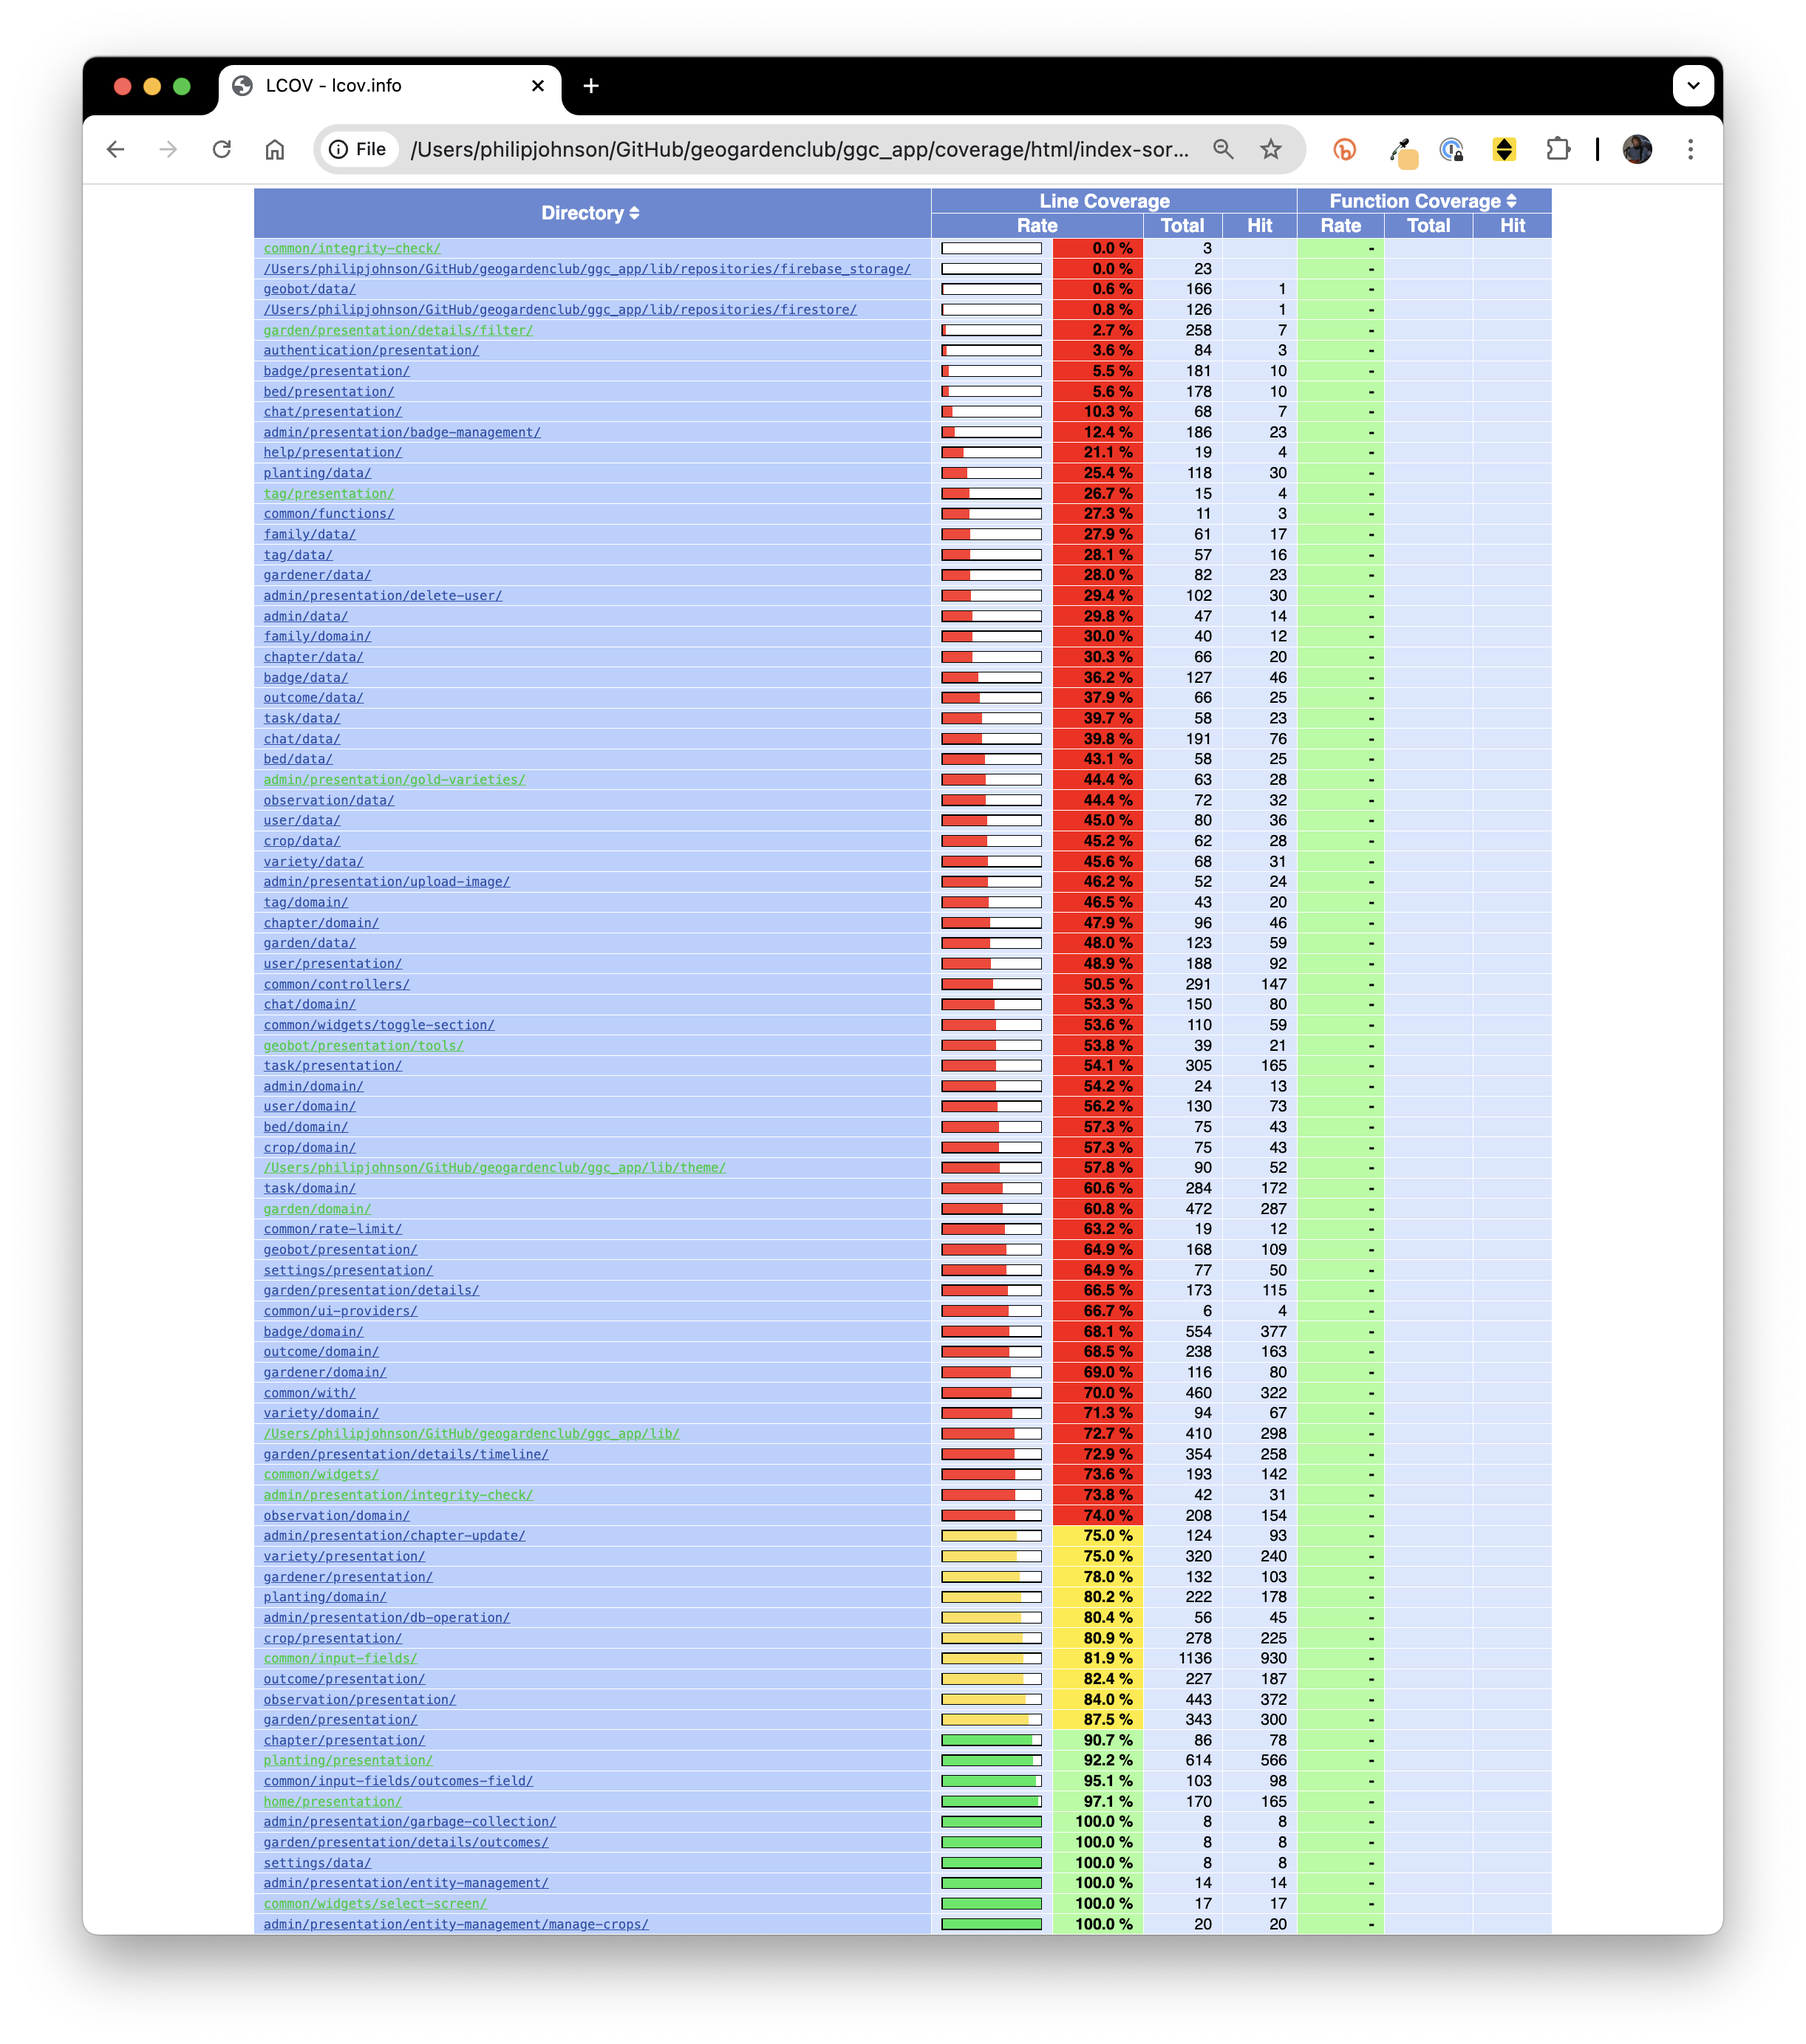
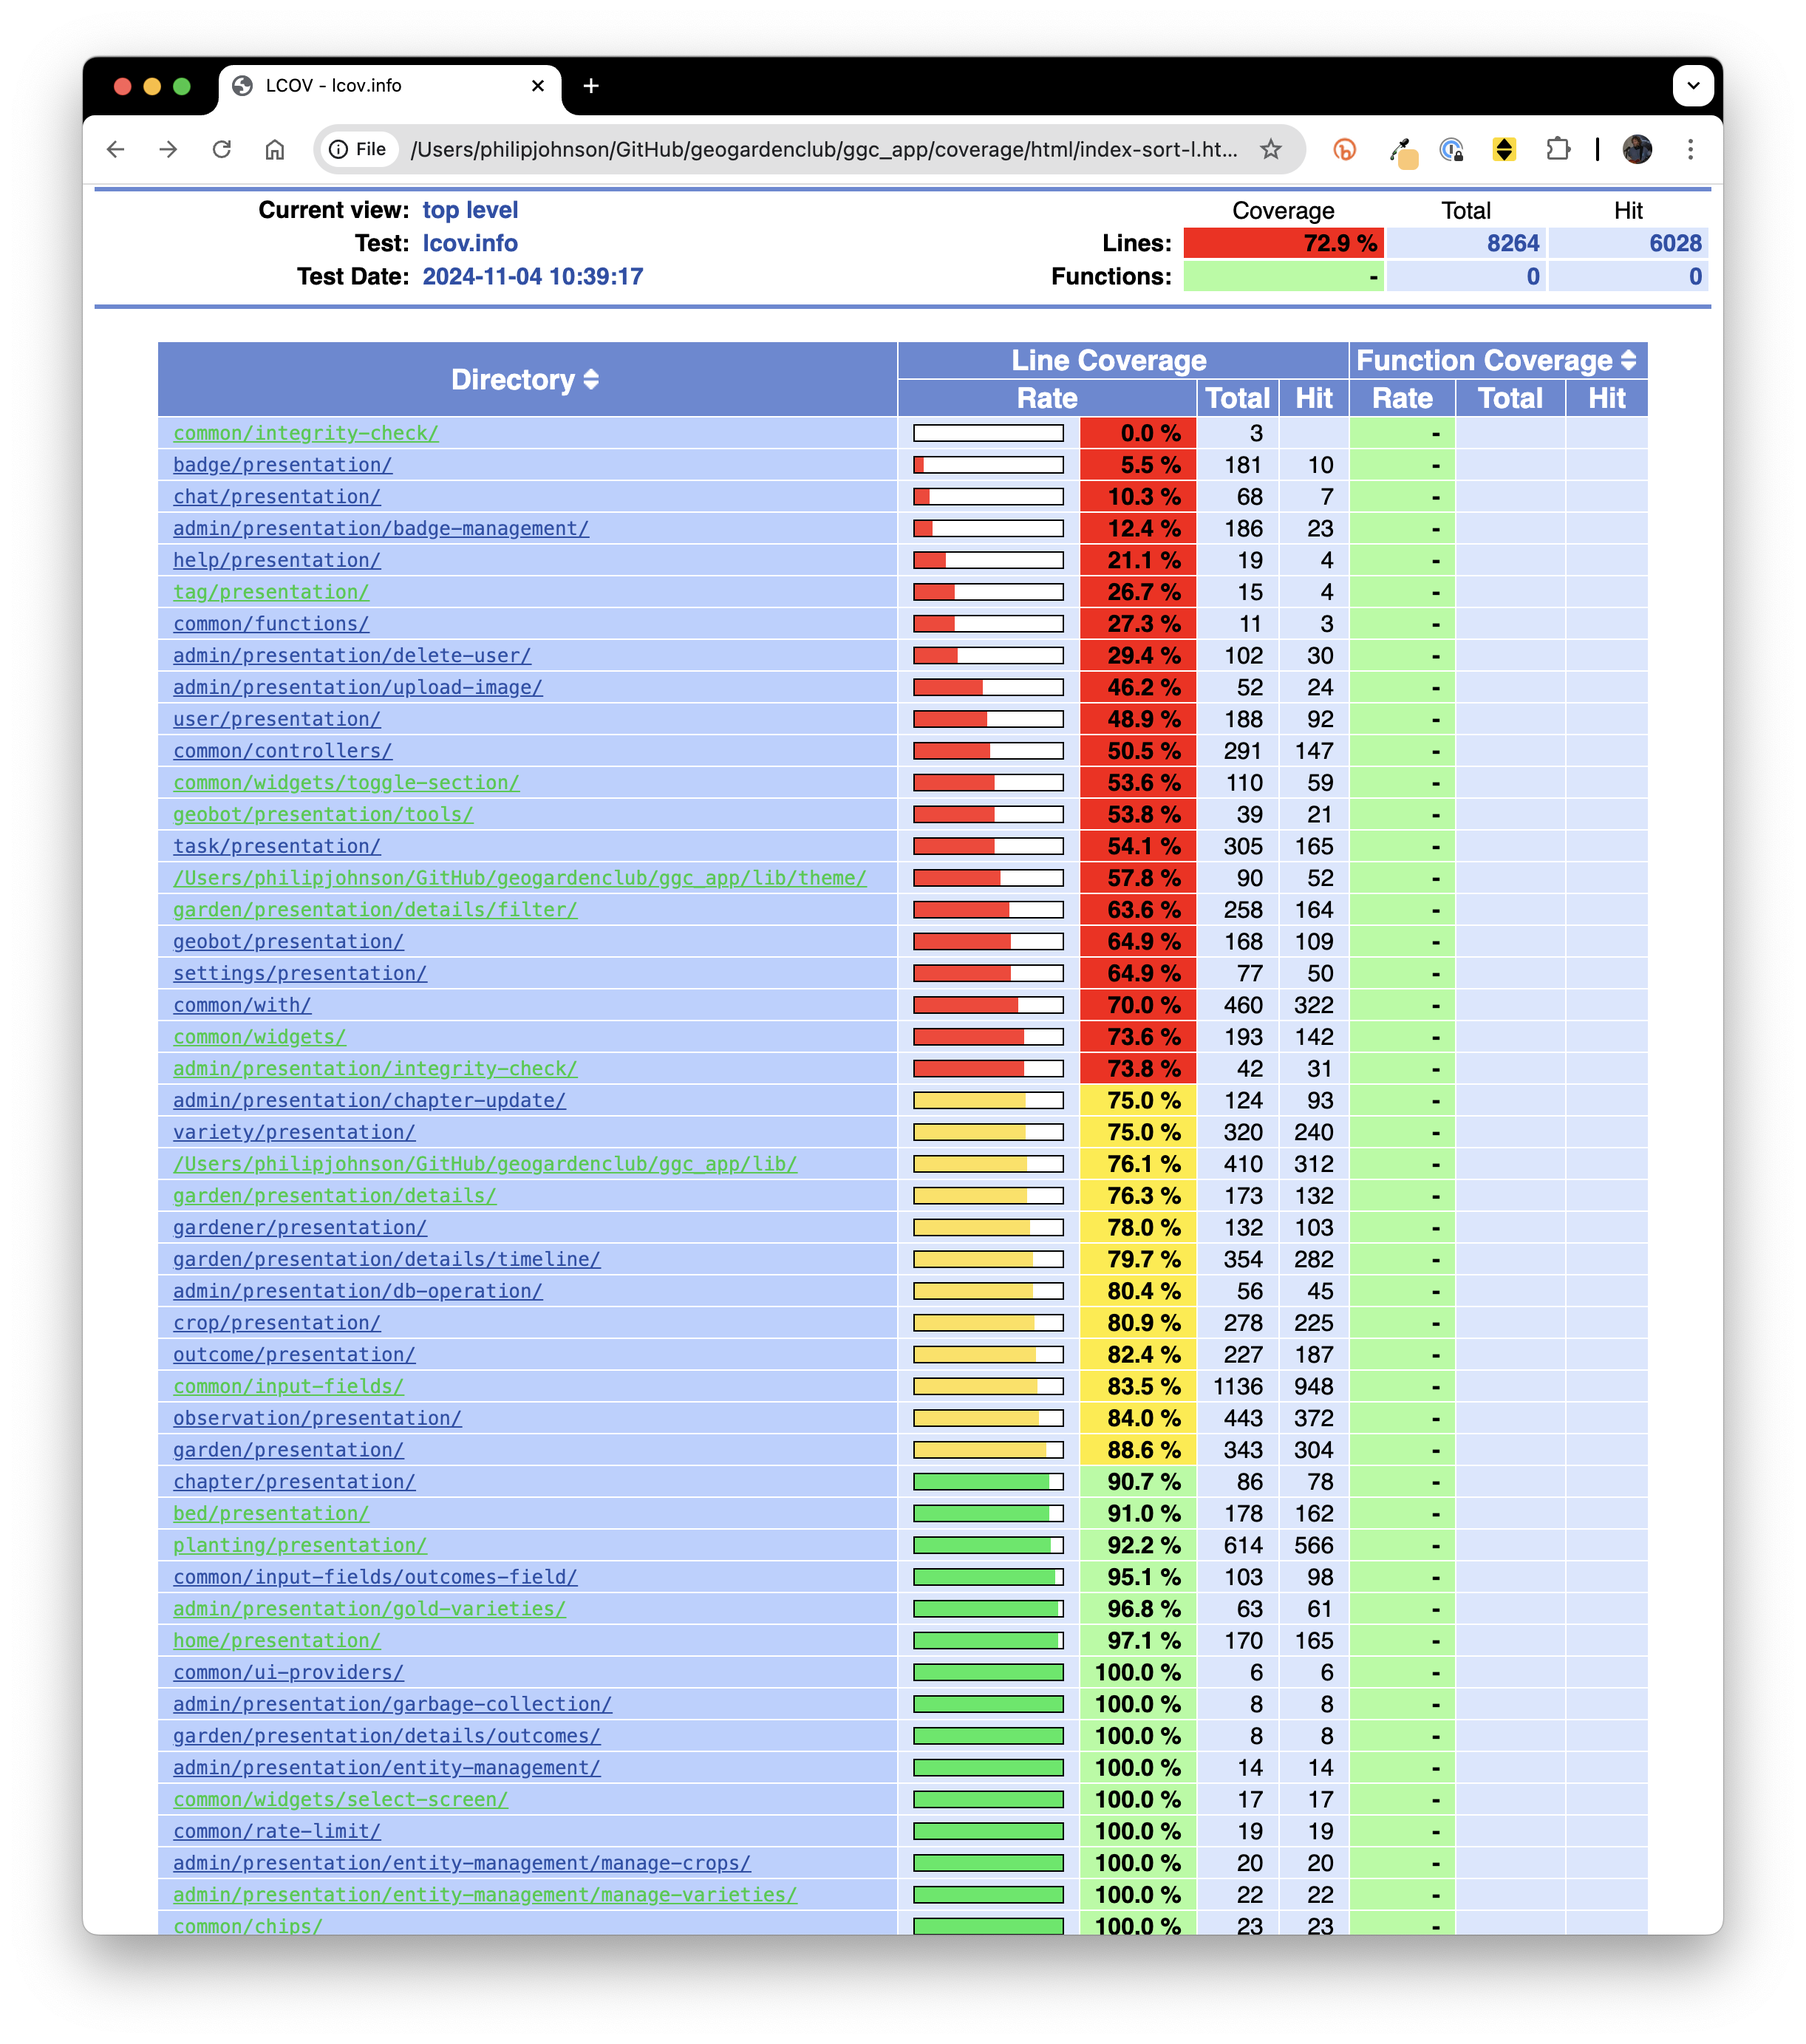
Update testing documentation

diff --git a/docs/develop/testing.md b/docs/develop/testing.md
@@ -18,25 +18,48 @@ Currently, our approach to testing excludes many important issues:
 * *Matrix (platform/device) testing.* GGC is intended to be used on three platforms: iOS, Android, and Web. Each of these platforms supports many different devices. We only test on one platform (iOS) and one device (typically iPhone 17). 
 * *UX testing.* Our tests do not ensure that user needs are met and that they have a positive experience using the app.
 
-Despite these limitations, our tests should help improve developer courage. In other words, the presence of a test suite that exercises most of the UI can give developers the confidence to attempt improvements to the code base because unintended ripple effects will often be caught by testing.  A decent test suite should enable us to incrementally improve the quality of the code over time. 
+Despite these limitations, our tests should help improve developer courage. In other words, the presence of a test suite that exercises most of the UI can give developers the confidence to attempt improvements to the code base because unintended ripple effects will often be caught by running the tests.  A decent test suite should enable us to incrementally improve the quality of the code over time as well as the feature set. 
 
+
+## Installation
+
+There are a few things you need to do to set up your machine to run the test suite locally.
+
+Note that at the current time, we only support testing on macOS. 
+
+First, bring up the iOS simulator and verify that you can bring up GGC on it. (The test suite assumes that the iOS simulator is available and that the GGC source code can be loaded.)  
+
+Second, install lcov on your machine by invoking:
+
+```shell
+brew install lcov
+```
+
+Third, activate the `remove_from_coverage` Dart package so that the coverage report can be customized. Do this by invoking:
+
+```agsl
+dart pub global activate remove_from_coverage
+```
 
 ## Run the tests
 
-Before you can run the test suite, bring up the iOS simulator and verify that the GGC source code can run on it. (The test suite assumes that the iOS simulator is available and that the GGC source code can be loaded.)  Once you've verified that GGC loads on the iOS simulator, you can stop execution of GGC if you want. (If you forget to do this, don't worry, invoking the test suite should stop execution of any running app on the simulator automatically.)  Don't quit the simulator, however.
-
-To run the test suite, invoke `./run_tests.sh`. It should take around 4 minutes to run, and should produce output similar to the following:
+To run the test suite, invoke `./run_tests.sh`. It should take around 5 minutes to run, and should produce output similar to the following:
 
 ```shell
-~/GitHub/geogardenclub/ggc_app git:[issue-235]
+~/GitHub/geogardenclub/ggc_app git:[main]
 ./run_tests.sh
 + flutter test integration_test/app_test.dart --coverage
-00:15 +0: loading /Users/philipjohnson/GitHub/geogardenclub/ggc_app/integration_test/app_test.dart                              Ru00:41 +0: loading /Users/philipjohnson/GitHub/geogardenclub/ggc_app/integration_test/app_test.dart                               
-00:48 +0: loading /Users/philipjohnson/GitHub/geogardenclub/ggc_app/integration_test/app_test.dart                           6.6s
-Xcode build done.                                           33.2s
-00:54 +0: GGC Integration Test (All) Fixture 1 Tests                                                                             
+00:04 +0: loading /Users/philipjohnson/GitHub/geogardenclub/ggc_app/integration_test/app_test.dart                               Ru00:30 +0: loading /Users/philipjohnson/GitHub/geogardenclub/ggc_app/integration_test/app_test.dart                                
+00:37 +0: loading /Users/philipjohnson/GitHub/geogardenclub/ggc_app/integration_test/app_test.dart                            6.8s
+Xcode build done.                                           32.5s
+00:44 +0: GGC Integration Test (All) Fixture 1 Tests                                                                              
 Testing admin feature
 Testing badge feature
+Testing bed feature
+#0   WriteRateLimiter.rateLimit (package:ggc_app/features/common/rate-limit/write_rate_limiter.dart:36:16)
+Rate limiting enabled.
+#0   WriteRateLimiter.rateLimit (package:ggc_app/features/common/rate-limit/write_rate_limiter.dart:36:16)
+Rate limiting enabled.
 Testing chapter feature
 Testing chat feature
 Testing crop feature
@@ -49,18 +72,26 @@ Testing outcome feature
 Testing planting feature
 Testing settings feature
 Testing task feature
+Testing user feature
 Testing variety feature
-02:00 +1: All tests passed!                                                                                                      
+04:46 +1: All tests passed!                                                                                                       
++ flutter pub global run remove_from_coverage:remove_from_coverage -f coverage/lcov.info -r 'repositories\/.*$'
++ flutter pub global run remove_from_coverage:remove_from_coverage -f coverage/lcov.info -r 'data\/.*$'
++ flutter pub global run remove_from_coverage:remove_from_coverage -f coverage/lcov.info -r 'domain\/.*$'
++ flutter pub global run remove_from_coverage:remove_from_coverage -f coverage/lcov.info -r 'authentication\/.*$'
 + genhtml -q coverage/lcov.info -o coverage/html
 Overall coverage rate:
-  source files: 472
-  lines.......: 61.8% (7922 of 12828 lines)
+  source files: 320
+  lines.......: 72.9% (6028 of 8264 lines)
   functions...: no data found
 Message summary:
   no messages were reported
 ```
 
-If the tests do not run successfully, the output will look similar to this:
+Note the line "All tests passed" after the sequence of lines documenting the feature under test.
+
+:::info Uh oh... 
+If the tests do not run successfully, there won't be the line "All tests passed", and the output will instead look similar to this:
 
 ```
 ./run_tests.sh
@@ -126,18 +157,20 @@ Message summary:
 You can see from this output that the failure occurred during the test of the planting feature. The stack trace indicates the failure occurred on line 24 of testPlantingCopyPlanting.dart. 
 
 If you cannot get the test code to execute successfully even though other developers can, it might be because the tests don't work on the device you've chosen. At the time of writing, the tests run successfully using the iPhone 15 simulator under iOS 17.5.
+:::
 
 Here are some important takeaways from this test execution output:
 
-* We only write integration tests; no unit or widget tests. This maximizes the ratio of application code exercised per line of test code.
+* We only write integration tests; no unit or widget tests. This maximizes the ratio of application code exercised per line of test code. Currently, the lib/ directory contains around 44K lines of code, and the integration_test/ directory contains around 1200 lines of code. So, the test code only accounts for around 2% of the total code base.   
 * Our tests run with a specific "test fixture" (currently we're using one called Test Fixture 1). This is a sample dataset containing test values for most or all of the entities in our system (i.e. chapters, beds, gardens, gardeners, etc.).  This sample dataset is stored in `assets/test/fixture1`.  In the future, we might write tests that require a different fixture. 
 * Our test architecture is organized around features.
-* We compute coverage to provide an efficient way to find important areas of the app code that have not yet been tested, not to verify that the tests achieve 100% coverage (more on this below). 
+* The "Rate Limiter" might be triggered. You can ignore this warning.
+* We compute coverage to provide an efficient way to find important areas of the app code that have not yet been tested, not to verify that the tests achieve 100% coverage (more on this below). We also remove several directories from the coverage report (i.e. data/, domain/, and repositories/) so that the coverage report does not report on code that is never executed due to mocking (i.e. code in the data/ and repositories/ directories) and also focuses more specifically on UI code.
 
 ## Always monitor the iOS simulator!
 :::warning 
 
-If testing with the iOS simulator, the testing process will occasionally (and unpredictably) pause waiting for you to click on a button to allow pasting:
+While testing with the iOS simulator, the testing process will occasionally (and unpredictably) pause waiting for you to click on a button to allow pasting:
 
 <img src="/img/develop/testing/core-simulator-bridge.png"/>
 
@@ -210,6 +243,8 @@ void main() {
       await checkIntegrity($, reason: 'admin feature');
       await testBadge($);
       await checkIntegrity($, reason: 'badge feature');
+      await testBed($);
+      await checkIntegrity($, reason: 'bed feature');
       await testChapter($);
       await checkIntegrity($, reason: 'chapter feature');
       await testChat($);
@@ -391,16 +426,19 @@ Here are some important takeaways:
 
 ## Coverage
 
-It can be useful to see the coverage of our test cases. After running the test suite, you can open the file `coverage/html/index.html`, which will look similar to this:
+It can be useful to see the coverage of our test cases. After running the test suite, you can open the file `coverage/html/index.html`. Here's what it looks like after clicking the button to sort the rows in order of increasing coverage.
 
 <img src="/img/develop/testing/coverage.png"/>
 
+Note that this report elides the data/, domain/, and repositories/ directories so that the focus is on UI code. Also, the use of mocks means that the code in the data/ and repositories/ directories will never be executed by testing, so reporting coverage for that code is not useful.
+
 There are clickable links that you can use to drill down to see which statements have been executed and which have not been.
 
-The above report was generated when the test cases yielded around 60% coverage. From examining the coverage report, there are some low-hanging fruit that would improve the quality of the test suite significantly: the garden details "filter", timeline management, the help pages, bed management, and so forth.  
+The goal of the coverage report is to simplify identification of "forgotten" areas of the UI for which we have not created any test cases. 
 
-We are not trying to obtain 100% coverage of the app code, in fact that would be impossible, because the code that accesses external services (database, authentication, photos) will never be executed due to the mocking process. For example, the coverage report shows that code in the "data/" subdirectories typically has low to zero coverage.
-
+:::warning forewarned is forarmed
+Beware that a high level of coverage does not, by itself, indicate that the test suite is high quality. This is because the app code might work correctly for the given test fixture in use, but fail under other circumstances. We must remain vigilent as we develop the app to identify areas of brittleness in the code base, and respond in an appropriate way.
+:::
 
 ## Test Design Hints
 
